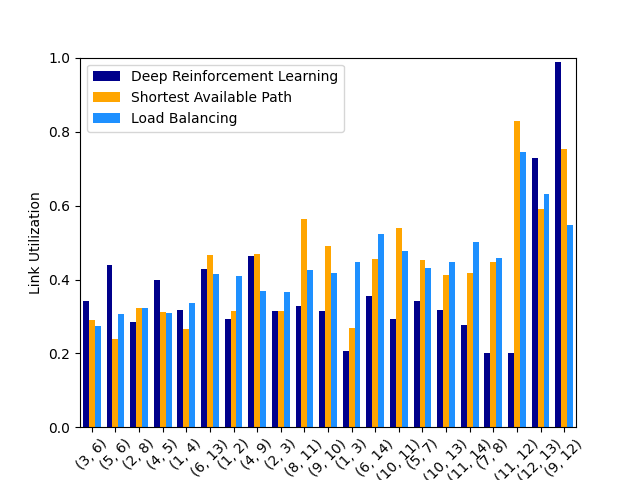
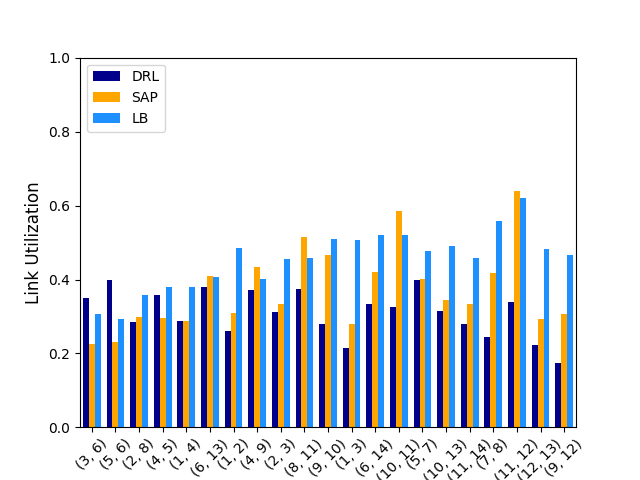
Update Fig

diff --git a/DQN/evaluate_DQN.py b/DQN/evaluate_DQN.py
@@ -682,7 +682,7 @@ if __name__ == "__main__":
     env_dqn.generate_environment(graph_topology, listofDemands, rand_size, rand_seed, plr_max, std_dev)
     
     dqn_agent = DQNAgent(env_dqn)
-    checkpoint_dir = "./models" + "sample_DQN_agent_plr"
+    checkpoint_dir = "./models" + "sample_DQN_agent_orig"
     
     checkpoint = tf.train.Checkpoint(model=dqn_agent.primary_network, optimizer=dqn_agent.optimizer)
     # Restore variables on creation if a checkpoint exists.
@@ -714,8 +714,6 @@ if __name__ == "__main__":
     rewards_sap, load_sap, demands_sap = exec_sap_model_episodes(experience_memory, graph_topology)
     rewards_dqn, load_dqn, demands_dqn = exec_dqn_model_episodes(experience_memory, env_dqn, dqn_agent)
     
-    print(load_dqn)
-    
     link_u = []
     link_v = []
     for i, j in env_dqn.ordered_edges:
@@ -746,29 +744,32 @@ if __name__ == "__main__":
             "dqn" : dqn_utilize[i],
             "sap" : sap_utilize[i],
             "lb" : lb_utilize[i],
-            "reliability" : env_dqn.betw_scale[i] / np.min(env_dqn.betw_scale) * env_dqn.plr_feature[i]
+            "rel" : env_dqn.betw_scale[i] / np.min(env_dqn.betw_scale) * env_dqn.plr_feature[i]
         }
         edge_utilize.append(edge_)
     
     def compare_edge(e):
-        return e["reliability"]
+        return e["betw"]
     
-    edge_utilize.sort(reverse = False, key = compare_edge)
+    edge_utilize.sort(reverse = True, key = compare_edge)
     
     fig = plt.figure()
     
     edges_arange = 4 * np.arange(len(env_dqn.ordered_edges))
-    plt.bar(edges_arange - 1, [e["dqn"] for e in edge_utilize], 1, color = "darkblue", label = "Deep Reinforcement Learning")
-    plt.bar(edges_arange + 0.0, [e["sap"] for e in edge_utilize], 1, color = "orange", label = "Shortest Available Path")
-    plt.bar(edges_arange + 1, [e["lb"] for e in edge_utilize], 1, color = "dodgerblue", label = "Load Balancing")
+    plt.bar(edges_arange - 1, [e["dqn"] for e in edge_utilize], 1, color = "darkblue", label = "DRL")
+    plt.bar(edges_arange + 0.0, [e["sap"] for e in edge_utilize], 1, color = "orange", label = "SAP")
+    plt.bar(edges_arange + 1, [e["lb"] for e in edge_utilize], 1, color = "dodgerblue", label = "LB")
     plt.xticks(edges_arange, [e["node"] for e in edge_utilize], rotation = 45)
     
     # plt.axis("tight")
     plt.xlim([edges_arange.min() - 2, edges_arange.max() + 2])
     plt.ylim([0.0, 1.001])
-    plt.xlabel("Links / Edges")
-    plt.ylabel("Link Utilization")
+    plt.xlabel("Links / Edges", fontsize=12)
+    plt.ylabel("Link Utilization", fontsize=12)
     plt.legend(loc = "upper left")
+    
+    reliability = np.mean([(env_dqn.betw_scale[i] / np.min(env_dqn.betw_scale) * env_dqn.plr_feature[i]) for i in range(env_dqn.numEdges)])
+    # plt.title('R = %.2f' %(reliability))
     
     plt.margins(0.05, 0)
     
